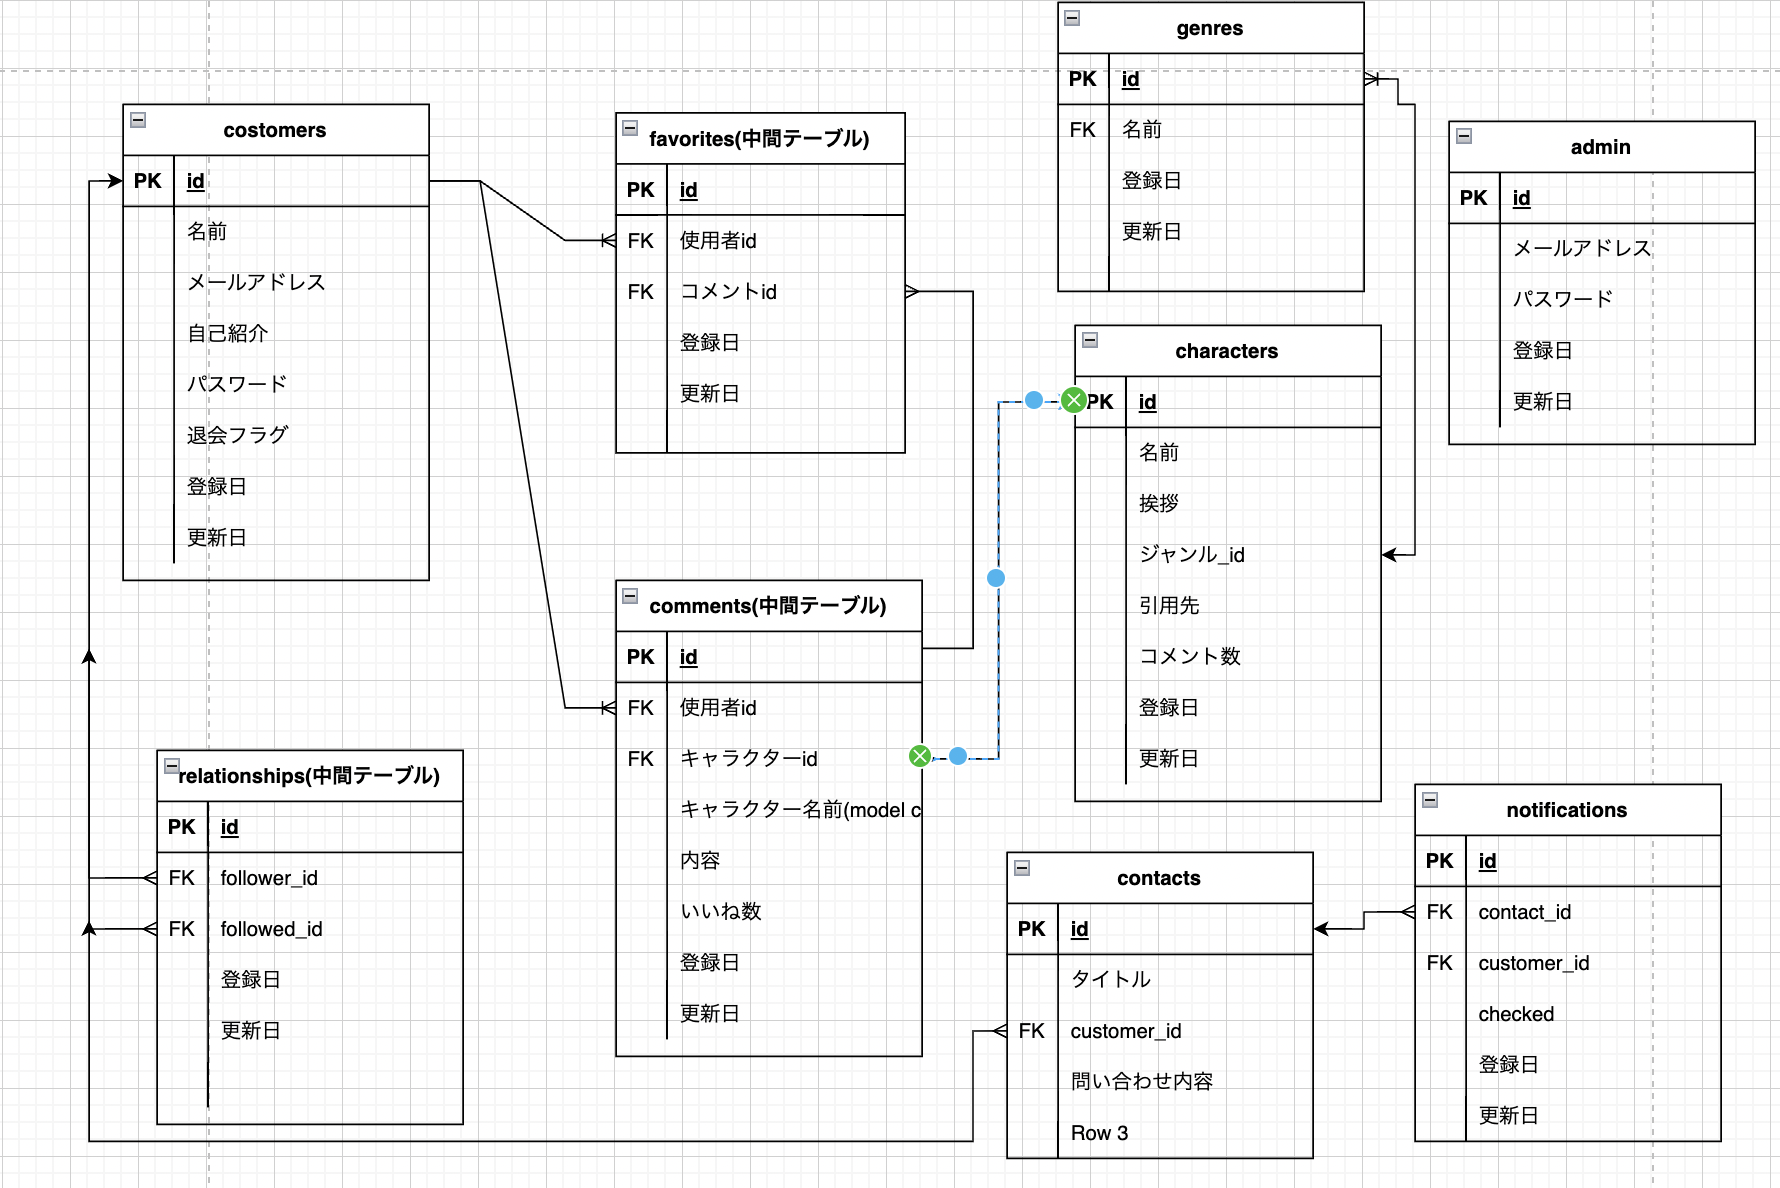
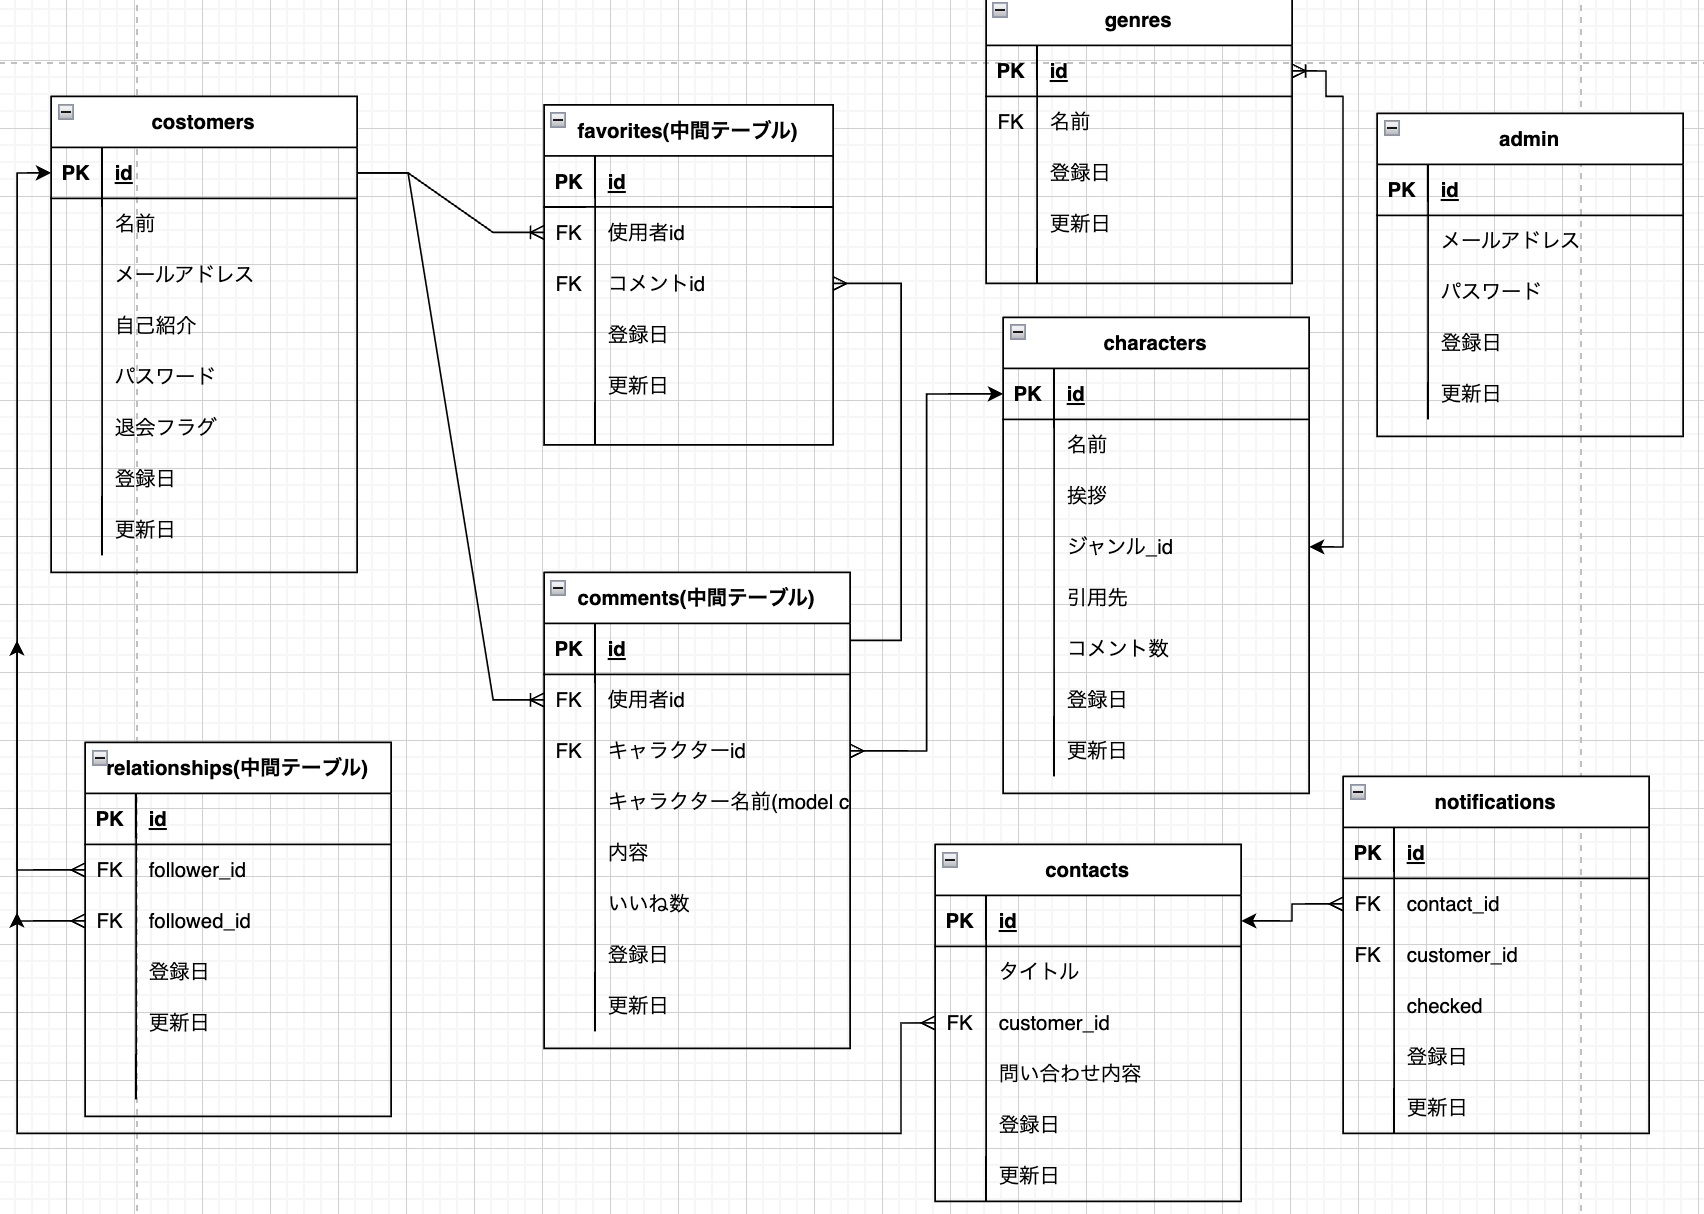
[update]ER図

Changed region(s): [[0.0, 0.0, 1.0, 1.0], [0.1866, 0.3426, 0.311, 0.4049], [0.902, 0.436, 0.9331, 0.4672]]

diff --git a/README.md b/README.md
@@ -29,7 +29,7 @@
 - JSライブラリ：jQuery
 - IDE：Cloud9
 ## ER図
-![ERfigure_image](app/assets/images/portfolio_ER.png)
+![ERfigure_image](app/assets/images/portfolio_ER2.png)
 ## 機能一覧
 ### 基本機能
 - 各種CRUD処理
